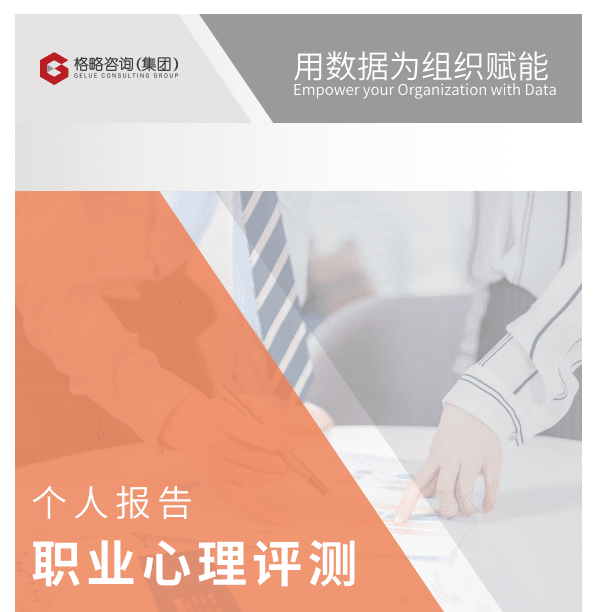
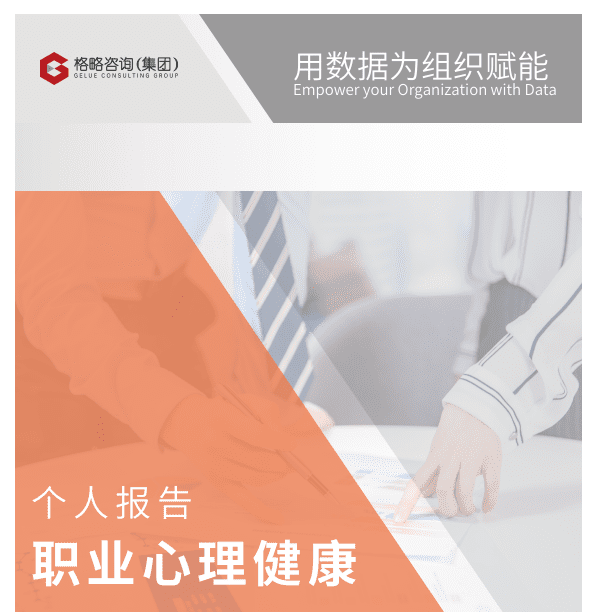
职业心理健康静态页面完成

diff --git a/ProfessionalPsychology__standard/ProfessionalPsychology.html b/ProfessionalPsychology__standard/ProfessionalPsychology.html
@@ -5,7 +5,7 @@
     <meta charset="UTF-8">
     <meta name="viewport" content="width=device-width, initial-scale=1.0">
     <meta http-equiv="X-UA-Compatible" content="ie=edge">
-    <title>职业心理测评</title>
+    <title>职业心理健康</title>
     <link rel="stylesheet" href="https://cdnjs.cloudflare.com/ajax/libs/normalize/7.0.0/normalize.min.css">
 
     <!-- Load paper.css for happy printing -->
@@ -565,6 +565,8 @@
                 <div class="trait red">
                     <span>红色指标:</span>
                     <p>暂无</p>
+                    <b>躯体反应</b>
+                    <b>躯体反应</b>
                 </div>
 
                 <!-- <div class="trait yellow">
@@ -586,7 +588,7 @@
         <img src="./img/picture07(1).png" alt="">
     </section>
 
-    <section class="detailed sheet">
+    <!-- <section class="detailed sheet">
         <img src="./img/picture02(1).png" style="margin-top: -1px;width: 101%;margin-left: -1px;">
         <div class="border">
             <div class="content">
@@ -984,7 +986,7 @@
             </div>
         </div>
         <img src="./img/picture07(4).png" alt="">
-    </section>
+    </section> -->
 
     <section class="footer sheet">
         <img src="./img/picture05.png" alt="">
